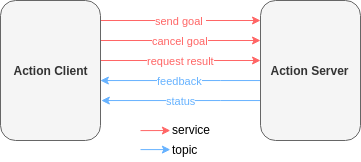
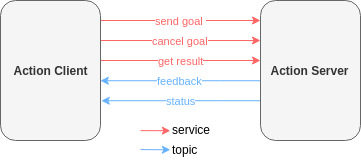
Fix typos and grammer, consistency in lingo, and let action clients generate goal IDs as UUIDs

diff --git a/articles/actions.md b/articles/actions.md
@@ -24,17 +24,17 @@ Original Author: {{ page.author }}
 There are three forms of communication in ROS: topics, services, and actions.
 Topic publishers broadcast to multiple subscribers, but communication is one-way.
 Service clients send a request to a service server and get a response, but there is no information about the progress.
-Similar to services, actions clients ask an action server reach some end state and will get a response.
-Unlike services, while the action is being peformed the action server sends progress updates to the client.
+Similar to services, actions clients send a request to an action server in order to achieve some goal and will get a result.
+Unlike services, while the action is being peformed an action server sends progress feedback to the client.
 
 Actions are useful when a response may take a significant length of time.
-They allow a client to track the progress of a request, get the final outcome, and optionally cancel the request it before it completes.
+They allow a client to track the progress of a request, get the final outcome, and optionally cancel the request before it completes.
 
 This document defines requirements for actions, how they are specified in the ROS Message IDL, and how they are communicated by the middleware.
 
 ## Entities Involved in Actions
 
-There are two entities involved in actions: an action server and an action client.
+There are two entities involved in actions: an **action server** and an **action client**.
 
 ### Action Server
 
@@ -42,51 +42,55 @@ An action server provides an action.
 Like topics and services, an action server has a name and a type.
 There is only one server per name.
 
-It is responsible for
+It is responsible for:
 
-* advertising the action to other ROS entities
-* accepting or rejecting requests from one or more action clients
-* executing the action when a request is received and accepted
-* optionally providing feedback about the progress of all executing actions
-* optionally handling requests to cancel an action
-* sending the result of the action, including whether it succeed, failed, or was cancelled, to the client when the action completes
+- advertising the action to other ROS entities
+- accepting or rejecting goals from one or more action clients
+- executing the action when a goal is received and accepted
+- optionally providing feedback about the progress of all executing actions
+- optionally handling requests to cancel one or more actions
+- sending the result of an action, including whether it succeed, failed, or was canceled, to the client when the action completes
 
 ### Action Client
 
-An action client requests an action to be performed and monitors its progress.
-There may be multiple clients per server; however, it is up to the server to decide how requests from multiple clients will be handled.
+An action client sends a goal (an action to be performed) and monitors its progress.
+There may be multiple clients per server; however, it is up to the server to decide how goals from multiple clients will be handled.
 
-It is responsible for
+It is responsible for:
 
-* making a request to the action server
-* optionally monitoring the feedback from the action server
-* optionally requesting that the action server cancel the action execution
-* optionally checking the result of the action received from the action server
+- sending a goal to the action server
+- optionally monitoring the feedback for a goal from the action server
+- optionally monitoring the status for a goal from the action server
+- optionally requesting that the action server cancel an active goal
+- optionally checking the result for a goal received from the action server
 
 ## Differences between ROS 1 and ROS 2 actions
 
 ### First Class Support
-In ROS 1, actions are implemented as a separate library `actionlib` which is built on top of the client libraries.
-This was done to avoid increasing the work required to create a client library in a new language, but actions turned out to be very important to packages like the navigation stack<sup>[1](#separatelib)</sup>.
-In ROS 2 actions will be included in the client library implementations.
-The work of writing a client library in a new language will be reduced by creating a common implmentation in C.
+
+In ROS 1, actions are implemented as a separate library, [actionlib](http://wiki.ros.org/actionlib) that is built on top of the client libraries.
+This was done to avoid increasing the work required to create a client library in a new language, but actions turned out to be very important to packages like the [Navigation Stack](http://wiki.ros.org/navigation) and [MoveIt!](https://moveit.ros.org/)<sup>[1](#separatelib)</sup>.
+
+In ROS 2, actions will be included in the client library implementations.
+The work of writing a client library in a new language will be reduced by creating a common implementation in C.
 
 ### Services used for Actions
 
-In ROS 1 actions were implemented using a set of topics under a namespace taken from the action name.
-ROS 1 Services were not used because they are inherently synchronous, and actions need to be asynchronous.
+In ROS 1, actions were implemented using a set of topics under a namespace taken from the action name.
+ROS 1 services were not used because they are inherently synchronous and actions need to be asynchronous.
 Actions also needed to send status/feedback and be cancelable.
-In ROS 2 services are asynchronous in the common C implementation, so actions will use a combination of services and topics.
+
+In ROS 2, services are asynchronous in the common C implementation, so actions will use a combination of services and topics.
 
 ### Goal Identifiers
 
-In ROS 1, Action clients are responsible for creating a goal ID when submitting a goal.
-In ROS 2 the action server will be responsible for generating the goal ID and notifying the client.
+In ROS 1, an action client can create a goal ID when submitting a goal.
+This potentially leads to scenarios where mutliple clients independently generate the same goal ID.
+If an empty goal ID is sent, the action server will create one instead, which is not very useful since the client has no way to know the goal ID.
 
-The server is better equiped to generate a unique goal id than the client because there may be multiple clients who could independently generate the same goal id.
-Another reason is to avoid a race condition between goal creation and cancellation that exists in ROS 1.
-In ROS 1 if a client submits a goal and immediatly tries to cancel it then the cancelation may or may not happen.
-If the cancelation is processed before the goal submission then `actionlib` will ignore the cancellation request without notifying the user's code.
+In ROS 2, action clients will be the sole entities responsible for generating the goal ID.
+This way clients always know the goal ID for an action.
+Futhermore, a UUID will be used for each goal to mitigate the issue of goal ID collision across multiple clients.
 
 ### Namespacing of Generated Messages and Services
 
@@ -98,9 +102,10 @@ In C++, the generated code should be in the namespace and folder `action` instea
 
 ### Visibility of Action Services and Topics
 
-In ROS 1 `rostopic list` would show all action topics in its output.
-In ROS 2 `ros2 topic list` and `ros2 service list` will not show topics and services used by actions by default.
-The can still be shown by passing an option to the commands to show hidden services and topics.
+In ROS 1, `rostopic list` would show all action topics in its output.
+In ROS 2, `ros2 topic list` and `ros2 service list` will not show topics and services used by actions by default.
+They can still be shown by passing an option to the commands to show hidden services and topics.
+The tool `ros2 action list` will produce list of action names provided by action servers (see [Intropsection tools](#introspection-tools)).
 
 ## Action Interface Definition
 
@@ -132,7 +137,7 @@ There is one action specification per `.action` file.
 
 ```
 # Define a goal of washing all dishes
-uint32 dishwasher_id  # Specify which dishwasher we want to use
+bool heavy_duty  # Spend extra time cleaning
 ---
 # Define the result that will be published after the action execution ends.
 uint32 total_dishes_cleaned
@@ -145,19 +150,17 @@ uint32 number_dishes_cleaned
 ## Introspection tools
 
 Actions, like topics and services, are introspectable from the command line.
-In ROS 1, actions are visible in the output of the `rostopic` tool.
 
-In ROS 2, actions will not be visible by default as a set of topics nor a set of services.
-Instead they will be visible using a separate `ros2 action` command line tool.
+The command line tool, `ros2 action`, will be able to:
 
-The command line tool will be able to:
-
-* list action servers and action clients
-* display active goals on an action server
-* display the arguments for an action's goal
-* display the type of an action's feedback and result
-* find actions by action type
-* call an action, display feedback as it is received, display the result when received, and cancel the action (when the tool is terminated prematurely).
+- list action names provided by action servers
+- list action servers and action clients
+- display active goals on an action server
+- display the arguments for an action goal
+- display the type of an action's goal, feedback, and result
+- find actions by action type
+- echo feedback, status, and result for an action goal
+- call an action, display feedback as it is received, display the result when received, and cancel the action (when the tool is terminated prematurely).
 
 Each action will be listed and treated as a single unit by this tool.
 
@@ -210,58 +213,58 @@ Python:
 
 ## Middleware implementation
 
-Under the hood, an action is made up of three services and two topics, each descibed in detail here.
+Under the hood, an action is made up of three services and two topics.
+In this section, they are descibed in detail.
 
 ![Action Client/Server Interaction Overview](../img/actions/interaction_overview.png)
 
-### Goal Submission Service
+### Send Goal Service
 
-* **Direction**: Client calls Server
-* **Request**: Description of goal
-* **Response**: Whether goal was accepted or rejected, a unique identifier for the goal, and the time when the goal was accepted.
+- **Direction**: client calls server
+- **Request**: description of goal and a UUID for the goal ID
+- **Response**: whether goal was accepted or rejected and the time when the goal was accepted
 
-The purpose of this service is to submit a goal to the action server.
+The purpose of this service is to send a goal to the action server.
 It is the first service called to begin an action, and is expected to return quickly.
-A user-define description of the goal is sent as the request.
-The response indicates whether or not the goal was accepted, and if so the identifier the server will use to describe the goal.
+The description of the goal in the request is user-define as part of the [Action Interface Definition](#action-interface-definition).
 
-The QoS settings of this service should be set the so the client is guaranteed to receive a response or an action could be executed without a client being aware of it.
+The QoS settings of this service should be set so the client is guaranteed to receive a response or an action could be executed without a client being aware of it.
 
-### Cancel Request Service
+### Cancel Goal Service
 
-* **Direction**: Client calls Server
-* **Request**: Goal identifier, time stamp
-* **Response**: Goals that will be attempted to be canceled
+- **Direction**: client calls server
+- **Request**: goal ID and timestamp
+- **Response**: list of goals that have transitioned to the CANCELING state
 
-The purpose of this service is to request to cancel one or more goals on the action server.
-A cancellation request may cancel multiple goals.
+The purpose of this service is to request the cancellation of one or more goals on the action server.
 The result indicates which goals will be attempted to be canceled.
 Whether or not a goal is actually canceled is indicated by the status topic and the result service.
 
 The cancel request policy is the same as in ROS 1.
 
-* If the goal ID is empty and time is zero, cancel all goals
-* If the goal ID is empty and time is not zero, cancel all goals accepted at or before the time stamp
-* If the goal ID is not empty and time is not zero, cancel the goal with the given id regardless of the time it was accepted
-* If the goal ID is not empty and time is zero, cancel the goal with the given id and all goals accepted at or before the time stamp
+- If the goal ID is empty and timestamp is zero, cancel all goals
+- If the goal ID is empty and timestamp is not zero, cancel all goals accepted at or before the time stamp
+- If the goal ID is not empty and timestamp is not zero, cancel the goal with the given ID regardless of the time it was accepted
+- If the goal ID is not empty and timestamp is zero, cancel the goal with the given ID and all goals accepted at or before the timestamp
 
 ### Get Result Service
 
-* **Direction**: Client calls Server
-* **Request**: Goal ID
-* **Response**: Status of goal and user defined result
+* **Direction**: client calls server
+* **Request**: goal ID
+* **Response**: status of goal and user defined result
 
-The purpose of this service is to get the final result of a service.
+The purpose of this service is to get the final result of a goal.
 After a goal has been accepted the client should call this service to receive the result.
-The result will indicate the final status of the goal and any user defined data.
+The result will indicate the final status of the goal and any user defined data as part of the [Action Interface Definition](#action-interface-definition).
 
-Once the server sends the result to the client it should free up any resources used by the action.
-If the client never asks for the result then the server should discard the result after a timeout period.
+The server should cache the result once it is ready so multiple clients have to opportunity to get it.
+This is useful for debugging/introspection tools.
+To free up resources, the server should discard the result after a configurable timeout period.
 
 ### Goal Status Topic
 
-* **Direction**: Server publishes
-* **Content**: List of in-progress goals with: Goal ID, time accepted, and an enum indicating the status
+* **Direction**: server publishes
+* **Content**: list of in-progress goals with goal ID, time accepted, and an enum indicating the status
 
 This topic is published by the server to broadcast the status of goals it has accepted.
 The purpose of the topic is for introspection; it is not used by the action client.
@@ -272,24 +275,22 @@ This allows new subscribers to always get the latest state.
 
 The possible statuses are:
 
-* *Accepted*
-  * The goal has been accepted by the action server and may now be executing
-* *Cancelling*
-  * The action server will try to cancel the indicated goal
-* *Cancelled*
-  * The action server successfully canceled the goal
-* *Succeeded*
-  * The action server successfully reached the goal
-* *Aborted*
-  * The action server failed reached the goal
+- *Accepted* - The goal has been accepted by the action server
+- *Executing* - The goal is currently being executing by the action server
+- *Canceling* - The action server will try to cancel the indicated goal
+- *Succeeded* - The action server successfully reached the goal
+- *Aborted* - The action server failed reached the goal
+- *Canceled* - The action server successfully canceled the goal
 
 ### Feedback Topic
 
-* **Direction**: Server publishes
-* **Content**: Goal id, user defined feedback message
+- **Direction**: server publishes
+- **Content**: goal ID, user defined feedback message
 
-This topic is published by the server to send application specific progress about the goal.
+This topic is published by the server to send progress feedback about the goal that is user-defined as part of the [Action Interface Definition](#action-interface-definition).
 It is up to the author of the action server to decide how often to publish the feedback.
+
+TODO: Something something about QoS specified by server
 
 ### Client/Server Interaction Examples
 
